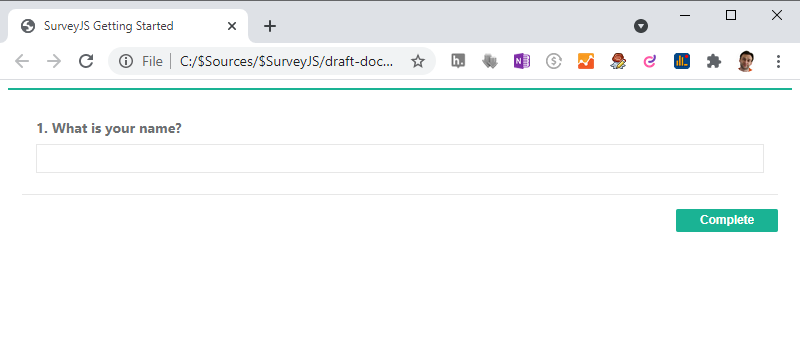
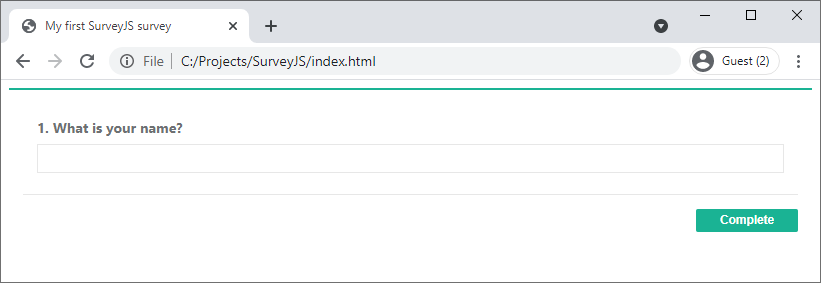
Images updated, TOC added in Getting Started

diff --git a/docs/Getting-Started-The-Very-Basics.md b/docs/Getting-Started-The-Very-Basics.md
@@ -1,8 +1,61 @@
 # Getting Started with SurveyJS - The Very Basics
 
-This section will help you get started using the SurveyJS Library. You will learn how to create a simple web page with a working instance of a SurveyJS-powered survey.
+This tutorial will help you get started using the SurveyJS Library. You will learn how to create a simple web page with a working instance of a SurveyJS-powered survey.
+
+The topic contains the following sections.
+
+* [Create an empty web page based on HTML5 template](#Create-an-empty-web-page-based-on-HTML5-template)
+* [Get required scripts and stylesheets](#Get-required-scripts-and-stylesheets)
+* [Add a survey instance to the page](#Add-a-survey-instance-to-the-page)
+* [Define survey content through JSON](#Define-survey-content-through-JSON)
+* [Get user answers](#Get-user-answers)
 
 
+ At the end you will have a webpage with the following code. 
+<details>
+    <summary>View the resulting code</summary>  
+
+```html
+<!DOCTYPE html>
+<html>
+<head>
+    <title>My first SurveyJS survey</title>
+    <meta charset="utf-8">
+    <script src="https://cdnjs.cloudflare.com/ajax/libs/jquery/3.1.1/jquery.min.js"></script>
+    <script src="https://unpkg.com/survey-jquery"></script>
+    <link href="https://unpkg.com/survey-jquery/survey.min.css" type="text/css" rel="stylesheet"/>
+</head>
+<body>
+    <div id="surveyContainer"></div>
+    <script>
+        function onCompleteHandler(sender) {
+            var resultAsString = JSON.stringify(survey.data);
+            alert(resultAsString); 
+        }    
+        var surveyJSON = { 
+            pages: [
+                { 
+                    elements: [
+                        {
+                            title: "What is your name?",
+                            type: "text"
+                        }
+                    ] 
+                }
+            ] 
+        };
+        var survey = new Survey.Model(surveyJSON);
+        survey.onComplete.add(onCompleteHandler);
+        $("#surveyContainer").Survey({model:survey});
+    </script>
+</body>
+</html>
+```
+</details>  
+
+
+
+<a id="Create-an-empty-web-page-based-on-HTML5-template"></a>
 ## Create an empty web page based on HTML5 template
 Begin with an empty HTML document, such as `index.html`. You can create and edit it using any text editor, even Notepad. 
 
@@ -45,7 +98,7 @@ Now you have a simple web page ready to incorporate a SurveyJS survey into it.
 </details>  
   
 
-
+<a id="Get-required-scripts-and-stylesheets"></a>
 ## Get required scripts and stylesheets
 
 In order to use SurveyJS, you must attach the required resources - JavaScript and CSS files - to your webpage. Referencing them from CDNs (content delivery networks) is the simplest and fastest way to load the resources.
@@ -56,7 +109,7 @@ This tutorial will use the [jQuery](https://jquery.com/) framework to create a s
 
 To quickly find a particular link to insert into the page, open the SurveyJS documentation's [Add a link to your platform scripts](https://surveyjs.io/Documentation/Library?id=Add-Survey-into-your-Web-Page#step-1.add-a-link-to-your-platform) section and search for the related platform reference in the section's table. 
 
-![](images/gs0-add-link-to-platform.png)
+![link to platform-related resources](images/gs0-add-link-to-platform.png)
 
 For the jQuery platform, use the following link:    
 `<script src="https://cdnjs.cloudflare.com/ajax/libs/jquery/3.1.1/jquery.min.js"></script>`
@@ -88,7 +141,7 @@ Insert it to the `<script>` tag within the page's `<head>` section.
 
 To find out which SurveyJS-related resources to attach, open the documentation's [Add links to SurveyJS files](https://surveyjs.io/Documentation/Library?id=Add-Survey-into-your-Web-Page#step-2.add-link-to-surveyjs-files) section and find the jQuery-related links in both tables within the section.
 
-![](images/gs0-add-link-to-surveyjs-files.png)
+![links to SurveyJS resources](images/gs0-add-link-to-surveyjs-files.png)
 
 The tables suggest using the following links:
  - a script link:  
@@ -124,9 +177,10 @@ Copy these links and paste them into the webpage's `<head>` section.
 
 Open the webpage in a browser and see that currently the page is empty. This is because no content is defined within the page so far.
 
-![](images/gs0-blank-page.png)
+![survey as blank page](images/gs0-blank-page.png)
 
 
+<a id="Add-a-survey-instance-to-the-page"></a>
 ## Add a survey instance to the page
 
 After you attach all required resources, you can modify the page body to add a survey to the page. 
@@ -194,9 +248,9 @@ Insert the above code pieces (DIV and script) into the page's `<body>`.
 
 If you open the webpage in a browser, you still see an empty page without any content. 
 
-You can find the reason in the browser's Developer Tools (F12) - its Console indicates an error: the `survey` variable is not defined.  
+You can find the reason in the browser's Developer Tools (F12) - its Console indicates an error: the `surveyJSON` variable is not defined.  
 
-![](images/gs0-blank-page-error1.png)
+![surveyJSON is not defined error](images/gs0-blank-page-error1.png)
 
 The cause of this error might be the `surveyJSON` variable which is passed as a parameter in the following code line but has not been defined anywhere within code.  
 `var survey = new Survey.Model(surveyJSON);`  
@@ -235,7 +289,7 @@ Let us define this variable and temporarily set it to null to find out whether t
 
 Open the page once again. Now a browser still displays an empty page and the Developer Tools' Console shows another error - the `sendDataToServer` method is not defined at this time.  
 
-![](images/gs0-blank-page-error2.png)
+![sendDataToServer is not defined error](images/gs0-blank-page-error2.png)
 
 A simple workaround that comes to mind to get rid of this error is to comment the following code line:  
 `onComplete:sendDataToServer` 
@@ -273,13 +327,14 @@ When you open the webpage, you see that now errors are gone and the page is not 
 
 `There is no visible page or question within the survey.`
 
-![](images/gs0-page-with-empty-survey.png)
+![page with empty survey](images/gs0-page-with-empty-survey.png)
 
 This means that a survey instance is created successfully but does not yet have any definition of its content, such as pages and/or questions. It is logical to assume that this is due to the `surveyJSON` variable which you previously set to null (instead of declaring the necessary content). As a result, SurveyJS renders the above "no content" text into the DIV specified as a container for the survey markup.
 
 Now you are ready to define the survey content to create your first survey and make it functional within a browser's page.
 
 
+<a id="Define-survey-content-through-JSON"></a>
 ## Define survey content through JSON
 
 To structure a survey, form a proper JSON survey definition. 
@@ -381,7 +436,7 @@ var surveyJSON = {
 
 Open the webpage in a browser and see a functional survey that contains a single text question (to collect a response from a user) and a 'Complete' button (to submit user responses).
 
-![](images/gs0-page-with-survey.png)
+![page with survey](images/gs0-page-with-survey.png)
 
 As you can see, the text question displays a textbox editor with an automatically generated title. The title text - "question1" - is by default taken from the element's [name](https://surveyjs.io/Documentation/Library?id=SurveyElement#name) property value. The `name` property is used to uniquely identify elements. If not defined explicitly, its value is formed automatically by combining the text `question` with the element's position within the survey - `1` in the current case).
 
@@ -410,11 +465,51 @@ var surveyJSON = {
     ] 
 };
 ```
+
+<details>
+    <summary>View page code</summary>  
+
+```html
+<!DOCTYPE html>
+<html>
+<head>
+    <title>My first SurveyJS survey</title>
+    <meta charset="utf-8">
+    <script src="https://cdnjs.cloudflare.com/ajax/libs/jquery/3.1.1/jquery.min.js"></script>
+    <script src="https://unpkg.com/survey-jquery"></script>
+    <link href="https://unpkg.com/survey-jquery/survey.min.css" type="text/css" rel="stylesheet"/>
+</head>
+<body>
+    <div id="surveyContainer"></div>
+    <script>
+        var surveyJSON = { 
+            pages: [
+                { 
+                    elements: [
+                        {
+                            //Specify the question's title:
+                            title: "What is your name?",
+                            type: "text"
+                        }
+                    ] 
+                }
+            ] 
+        };
+        var survey = new Survey.Model(surveyJSON);
+        //survey.onComplete.add(sendDataToServer);
+        $("#surveyContainer").Survey({model:survey});
+    </script>
+</body>
+</html>
+```
+</details>  
+
 Now the title indicates the question purpose and helps users provide correct answers.
 
-![](images/gs0-page-with-survey-question-title.png)
+![question title in survey](images/gs0-page-with-survey-question-title.png)
 
 
+<a id="Get-user-answers"></a>
 ## Get user answers
 
 In response to a click on the 'Complete' button, SurveyJS forms a JSON object (survey response) with collected user answers. This JSON typically contains an array of key/value pairs where the key is a question's identifier (name) and the value is the user answer to the question.
@@ -425,7 +520,7 @@ For this purpose, you can do the following.
 
 Open the [Save survey data on the web server](https://surveyjs.io/Documentation/Library?id=Add-Survey-into-your-Web-Page#step-5.save-survey-data-on-the-web-server) documentation section and copy the code from its "Your web server" part. 
 
-![](images/gs0-doc-with-event-handler.png)
+![documentation section with event handler](images/gs0-doc-with-event-handler.png)
 
 ```js
 function sendDataToServer(sender) {
@@ -464,6 +559,7 @@ Insert the code into your page's `<body>`, into the `<script>` section, right be
                 { 
                     elements: [
                         {
+                            title: "What is your name?",
                             type: "text"
                         }
                     ] 
@@ -480,14 +576,11 @@ Insert the code into your page's `<body>`, into the `<script>` section, right be
 </details>  
 
 
-
-
-
 Uncomment the following (previously commented) code line that assigns an `onComplete` event handler:  
 `//survey.onComplete.add(sendDataToServer);`
 
 
-Finally, you can find it useful to change the handling function name from 'sendDataToServer' to 'onCompleteHandler' since in the context of this tutorial, you do not send data to any server but just preview them in an alert message.
+Finally, you can find it useful to change the handling function name from 'sendDataToServer' to 'onCompleteHandler' since in the context of this tutorial, you do not send any data to a server but just preview them in an alert message.
 
 The webpage's result code looks as follows.
 
@@ -495,7 +588,7 @@ The webpage's result code looks as follows.
 <!DOCTYPE html>
 <html>
 <head>
-    <title>SurveyJS Getting Started</title>
+    <title>My first SurveyJS survey</title>
     <meta charset="utf-8">
     <script src="https://cdnjs.cloudflare.com/ajax/libs/jquery/3.1.1/jquery.min.js"></script>
     <script src="https://unpkg.com/survey-jquery"></script>
@@ -513,6 +606,7 @@ The webpage's result code looks as follows.
                 { 
                     elements: [
                         {
+                            title: "What is your name?",
                             type: "text"
                         }
                     ] 
@@ -529,13 +623,14 @@ The webpage's result code looks as follows.
 
 Open the page, answer the question, and click the 'Complete' button. You see the collected data in the alert message box.
 
-![](images/gs0-survey-response-in-alert.png)
+![survey response in alert](images/gs0-survey-response-in-alert.png)
 
 Pay attention to the data format. It is a JSON containing an array with a single item - a key/value pair that represents a user answer to the question. In this item, the key is the [name](https://surveyjs.io/Documentation/Library?id=SurveyElement#name) ("question1") that identifies the question and the value is the text ("John") entered into the question's textbox.
 
 In a real application, you will need to process the obtained response data by passing a survey response JSON to a server and saving to a store of survey data. 
 
 
+<a id="Conclusion"></a>
 ## Conclusion
 
 From this tutorial, you have learned how to create a simple survey, display it on a web page and get access to its user responses.
